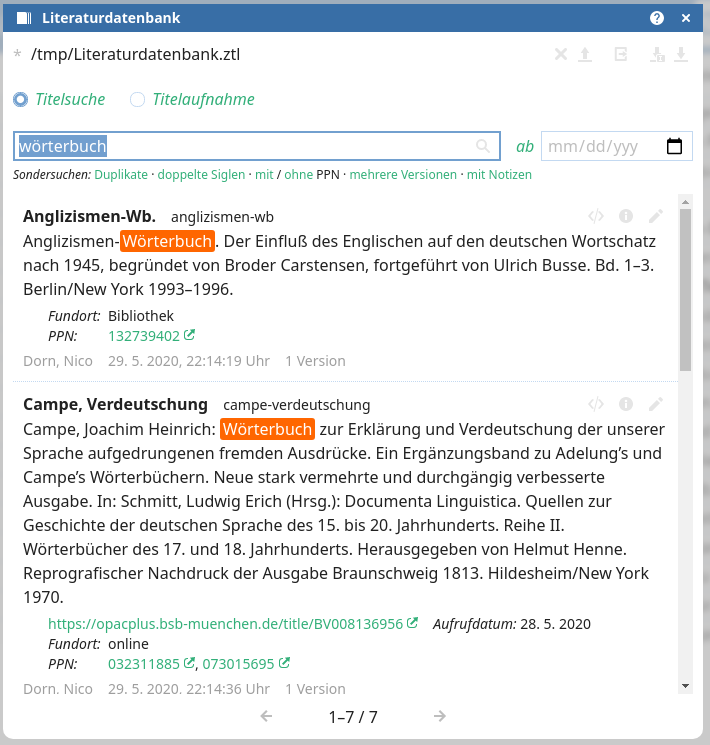
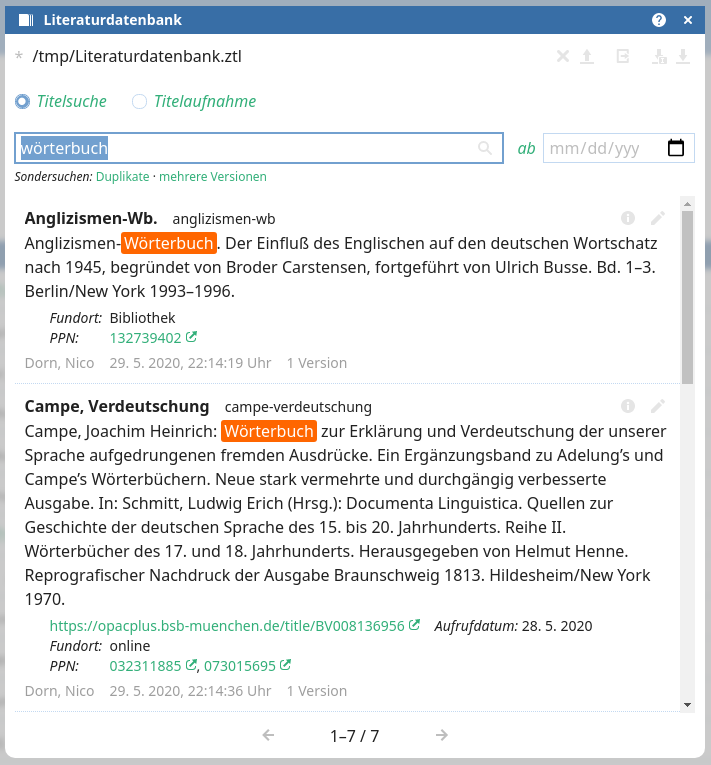
Removal: einige Sondersuchen der Literaturdatenbank wurden entfernt, da für diese nun äquivalente Suchschalter zur Verfügung stehen

diff --git a/win/handbuch.html b/win/handbuch.html
@@ -4570,18 +4570,14 @@ Gerüst 2 &gt; Gerüst 1</pre>
 
 						<p id="menueRedaktion-literaturXml">Wurde in demselben Fenster, in dem die Literaturdatenbank gerade geöffnet ist, auch eine Kartei geladen, erscheint ein weiteres Icon: <img src="../img/xml.svg" width="20" height="20" alt="">. Mit ihm kann man die jeweilige <b>Titelaufnahme an das <abbr title="Extensible Markup Language" lang="en">XML</abbr>-Redaktionsfenster schicken</b> (<abbr title="vergleiche">vgl.</abbr> den Abschnitt zum <a href="#menueRedaktion-xml"><abbr title="Extensible Markup Language" lang="en">XML</abbr>-Redaktionssystem</a>). Ist dieses Fenster noch nicht geöffnet, wird es durch Klick auf das Icon automatisch aufgerufen. Dabei wird immer die aktuellste Version einer Titelaufnahme an das XML-Fenster geschickt, und zwar auch dann, wenn gerade eine veraltete Titelaufnahme angezeigt wird.</p>
 
-						<p id="menueRedaktion-literaturSondersuchen">Unter dem Suchschlitz finden Sie Links, mit denen Sie <b>Sondersuchen</b> starten können. Bei Sondersuchen werden keine veralteten Datensätze durchsucht; sie beziehen sich also immer auf die jüngste Version einer Titelaufnahme. Im Suchschlitz oder im Datumsfeld eingetragene Werte werden auch bei einer Sondersuche berücksichtigt. Die Sondersuchen können Ihnen jedoch Ergebnisse liefern, für die es ein bisschen komplizierterer Suchalgorithmen bedarf. Gefunden werden dabei im Einzelnen:</p>
+						<p id="menueRedaktion-literaturSondersuchen">Unter dem Suchschlitz finden Sie Links, mit denen Sie <b>Sondersuchen</b> starten können. Bei Sondersuchen werden niemals veraltete Datensätze durchsucht. Im Suchschlitz oder im Datumsfeld eingetragene Werte werden auch bei einer Sondersuche berücksichtigt, mit Ausnahme des Schalters <code class="quelltext">auchAlte:&quot;&quot;</code>, mit dem bei normalen Suchen veraltete Datensätze mit einbezogen werden können. Die Sondersuchen können Ihnen Ergebnisse liefern, für die es ein bisschen komplizierterer Suchalgorithmen bedarf. Gefunden werden dabei im Einzelnen:</p>
 
 						<ul>
 							<li><i>Duplikate:</i> Ja, mit dieser Sondersuchen kann die Datenbank nach Duplikaten durchsucht werden. Als Duplikate gelten Titelaufnahmen, die mindestens eines der folgenden Kriterien erfüllen: identischer Titel, identische Sigle, identische URL, identische <abbr title="Pica-Produktionsnummer">PPN</abbr>.</li>
 
 							<li><i>doppelte Siglen:</i> Eine auf identische Siglen reduzierte Suche nach Duplikaten.</li>
 
-							<li><i>mit/ohne <abbr title="Pica-Produktionsnummer">PPN</abbr>:</i> Findet Titelaufnahmen, denen mindestens eine <abbr title="respektive">resp.</abbr> keine <abbr title="Pica-Produktionsnummer">PPN</abbr> zugewiesen wurde.</li>
-
 							<li><i>mehrere Versionen:</i> Zeigt nur Titelaufnahmen an, die mehr als eine Version haben.</li>
-
-							<li><i>mit Notizen:</i> Zeigt nur Titelaufnahmen mit Notizen an. Wie bei allen Sondersuchen wird auch bei dieser immer nur die jüngste Titelaufnahme durchsucht. Finden sich in einer veralteten Version einer Titelaufnahme Notizen in der jüngsten aber nicht, kann diese Aufnahme so nicht gefunden werden.</li>
 						</ul>
 
 						<figure class="right" title="zum Vergrößern anklicken">
@@ -4662,7 +4658,7 @@ Gerüst 2 &gt; Gerüst 1</pre>
 								<p><i>Tags</i> (fakultativ): Sie können Titelaufnahmen mit beliebig vielen Tags versehen. Das Dropdown-Menü bietet Ihnen einige vordefinierte und alle in der aktuell geladenen Literaturdatenbank zu findenden Tags zur Auswahl an. Sie können aber auch jederzeit neue Tags eingeben und ergänzen. Zum Übernehmen eines Tags müssen Sie die Eingabe mit <kbd>⏎</kbd> bestätigen. Zum Löschen eines Tags, klicken Sie den betreffenden Tag rechts neben dem Eingabefeld an.</p>
 							</li>
 
-							<li><i>Notizen</i> (fakultativ): Ein Freitextfeld für Notizen zu der Titelaufnahme. Zeilenumbrüche sind erlaubt und werden in der Titelanzeige der <a href="#menueRedaktion-literaturTitelsuche">Titelsuche</a> auch dargestellt. Diese Notizen sind allein für die Arbeit in der Literaturdatenbank gedacht. Darum werden sie von den <a href="#menueRedaktion-literaturExportieren">Exportfunktionen</a> ignoriert. Titelaufnahmen mit Notizen lassen sich mit der entsprechenden <a href="#menueRedaktion-literaturSondersuchen">Sondersuche</a> finden.</li>
+							<li><i>Notizen</i> (fakultativ): Ein Freitextfeld für Notizen zu der Titelaufnahme. Zeilenumbrüche sind erlaubt und werden in der Titelanzeige der <a href="#menueRedaktion-literaturTitelsuche">Titelsuche</a> auch dargestellt. Diese Notizen sind allein für die Arbeit in der Literaturdatenbank gedacht. Darum werden sie von den <a href="#menueRedaktion-literaturExportieren">Exportfunktionen</a> ignoriert. Titelaufnahmen mit Notizen lassen sich mit dem Suchschalter <code class="quelltext">Notizen:&quot;&quot;</code> finden.</li>
 
 							<li><i>Metadaten:</i> Die Metadaten unterhalb des Formulars (<i>BearbeiterIn, Datum, Aufnahme</i>) werden von der App eigenständig befüllt und können nicht manuell geändert werden. Das Feld <i>Aufnahme</i> ist klicksensitiv: Man kann mit ihm das <a href="#menueRedaktion-literaturVersionen">Versionen-Popup</a> öffnen.</li>
 						</ul>

diff --git a/js/app/redLit.js b/js/app/redLit.js
@@ -1556,20 +1556,13 @@ let redLit = {
 			// Suche nach Text und Datum
 			for (let i = 0, len = arr.length; i < len; i++) {
 				let aufnahme = arr[i];
+				// standardmäßig nur die erste Titelaufnahme durchsuchen
+				if (i > 0 && !auchAlte) {
+					break;
+				}
 				// Sondersuchen
-				if (i > 0 && !auchAlte) { // standardmäßig nur die erste Titelaufnahme durchsuchen
-					break;
-				} else if (redLit.suche.sonder === "siglen_doppelt" &&
+				if (redLit.suche.sonder === "siglen_doppelt" &&
 						!siglen_doppelt.has(aufnahme.td.si)) { // doppelte Siglen
-					break;
-				} else if (redLit.suche.sonder === "ppn_mit" &&
-					!aufnahme.td.pn.length) { // mit PPN
-					break;
-				} else if (redLit.suche.sonder === "ppn_ohne" &&
-					aufnahme.td.pn.length) { // ohne PPN
-					break;
-				} else if (redLit.suche.sonder === "notizen" &&
-					!aufnahme.td.no) { // mit Notizen
 					break;
 				}
 				// Datum

diff --git a/index.html b/index.html
@@ -1045,7 +1045,7 @@
 					><a href="#" class="icon-link icon-lupe" id="red-lit-suche-start" tabindex="-1" title="Suche starten"> </a
 				></p>
 				<p id="red-lit-suche-sonder"
-					><i>Sondersuchen:</i> <a href="#" data-sonder="duplikate">Duplikate</a> · <a href="#" data-sonder="siglen_doppelt">doppelte Siglen</a> · <a href="#" data-sonder="ppn_mit">mit</a> / <a href="#" data-sonder="ppn_ohne">ohne</a> PPN · <a href="#" data-sonder="versionen">mehrere Versionen</a> · <a href="#" data-sonder="notizen">mit Notizen</a
+					><i>Sondersuchen:</i> <a href="#" data-sonder="duplikate">Duplikate</a> · <a href="#" data-sonder="siglen_doppelt">doppelte Siglen</a> · <a href="#" data-sonder="versionen">mehrere Versionen</a
 				></p>
 				<div id="red-lit-suche-titel"></div>
 				<div id="red-lit-suche-treffer"

diff --git a/win/changelog.html b/win/changelog.html
@@ -50,6 +50,8 @@
 
 				<ul>
 					<li><a href="#menueRedaktion-literatur" class="link-handbuch">Literaturdatenbank</a>: Der Schalter <code class="quelltext">na:&quot;&quot;</code> <abbr title="beziehungsweise">bzw.</abbr> <code class="quelltext">nurAktuelle:&quot;&quot;</code>, um die Suche auf die jüngste Aufnahme eines Titels zu beschränken, wurde entfernt. Standardmäßig wird nun allein in der jüngsten Titelaufnahme gesucht.</li>
+
+					<li>Literaturdatenbank: Die Sondersuchen nach Titeln mit Notizen sowie Titeln mit und ohne <abbr title="Pica-Produktionsnummer">PPN</abbr> wurden entfernt. Hierfür können nun die entsprechenden Suchschalter genutzt werden.</li>
 				</ul>
 
 				<h3>Neue Funktionen</h3>
